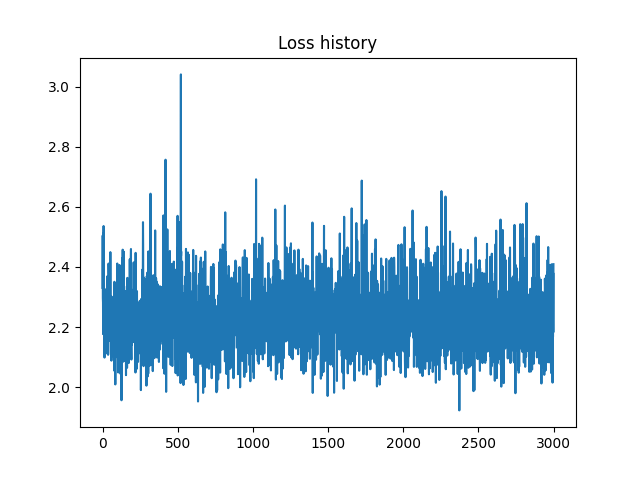
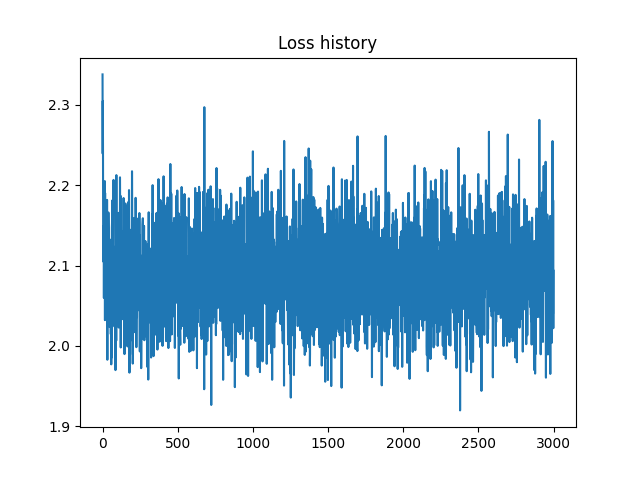
improve 2nd homework

diff --git a/src/seminar2.py b/src/seminar2.py
@@ -146,10 +146,10 @@ def train():
     # weights images must look like in lecture slides
 
     # ***** START OF YOUR CODE *****
-    learning_rate = 0.05
+    learning_rate = 0.03
     reg = 0.01
     num_iters = 3000
-    batch_size = 64
+    batch_size = 128
     # ******* END OF YOUR CODE ************
 
     (x_train, y_train), (x_test, y_test) = get_preprocessed_data()

diff --git a/output/seminar2/report.md b/output/seminar2/report.md
@@ -1,14 +1,14 @@
 # Training Softmax classifier  
-datetime: 2023-09-29 20:20:16  
+datetime: 2023-09-29 20:37:25  
 Well done in: 2 seconds  
-learning_rate = 0.05  
+learning_rate = 0.03  
 reg = 0.01  
 num_iters = 3000  
-batch_size = 64  
+batch_size = 128  
 
-Final loss: 2.409437044157761   
-Train accuracy: 0.22328   
-Test accuracy: 0.2237  
+Final loss: 2.0936420157478857   
+Train accuracy: 0.30108   
+Test accuracy: 0.3001  
 
 <img src="weights.png">  
 <br>
